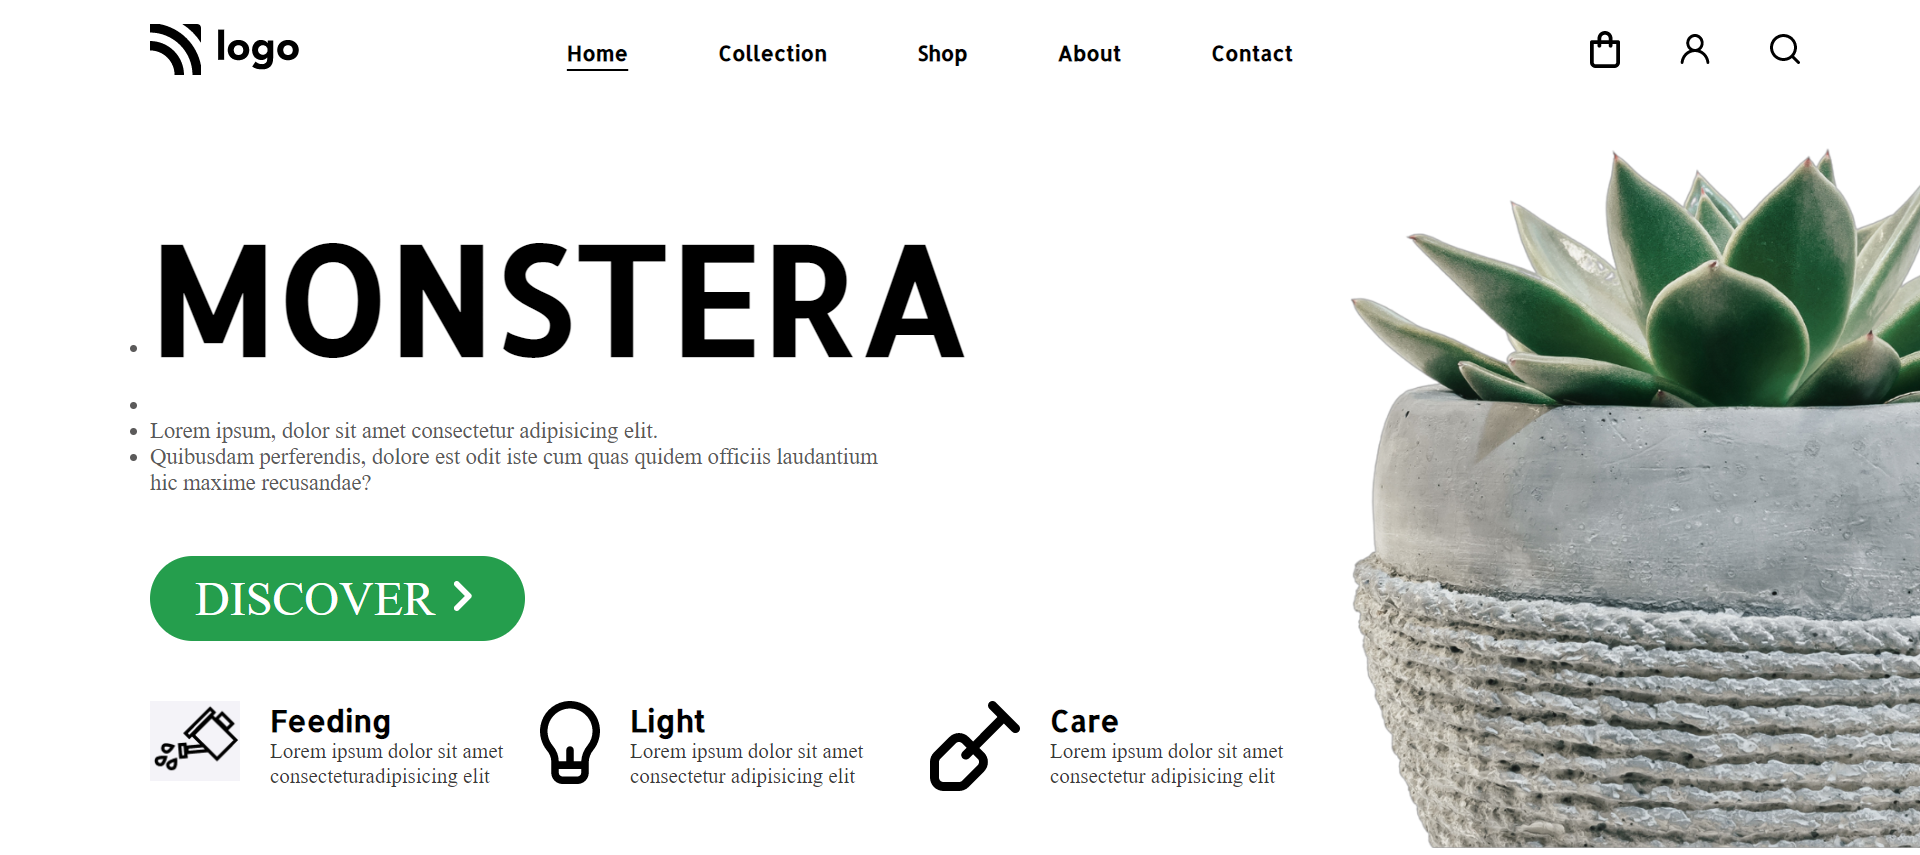
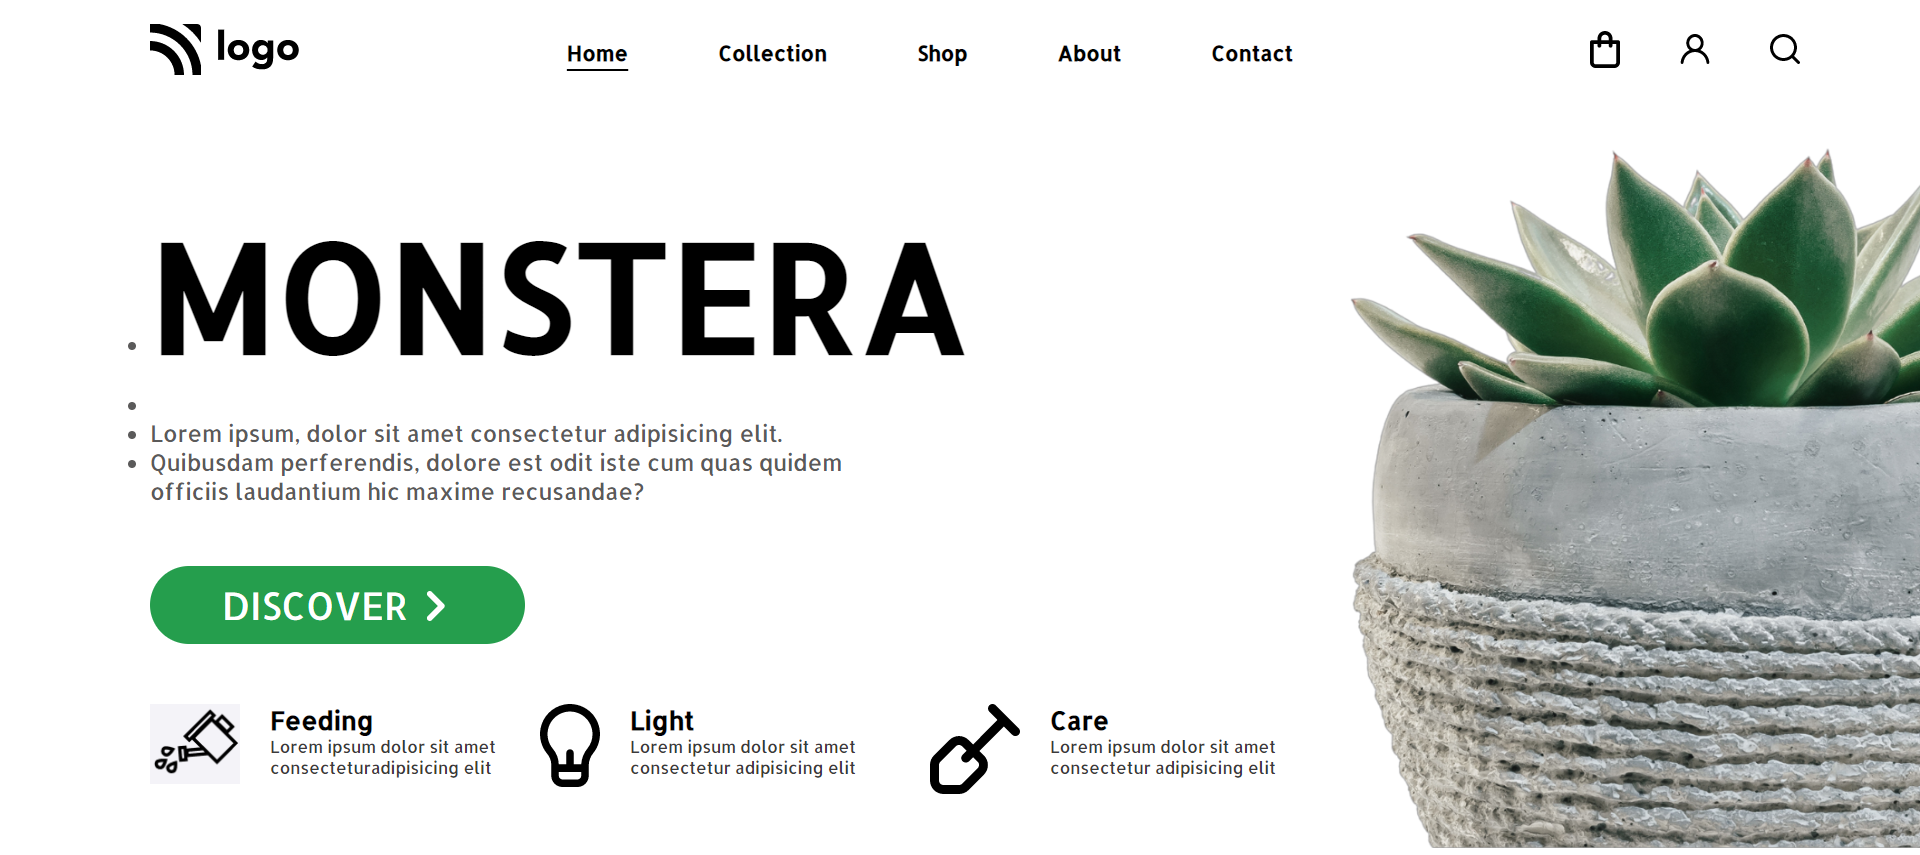
update readme

diff --git a/index.html b/index.html
@@ -19,6 +19,7 @@
         margin: 0;
         padding: 0;
         box-sizing: border-box;
+        font-family: 'Allerta', sans-serif;
       }
 
       #navbarMonstera {
@@ -36,11 +37,13 @@
       }
       #navMid{
         display: flex;
+  
       }
       #navMid > div > h4{
         margin: 30px;
         font-size: 14px;
         font-weight: 600;
+        cursor: pointer;
       }
        #navMid > div > h4:nth-child(1){
         position: relative;
@@ -60,6 +63,7 @@
       #navEnd > div > img{
         margin: 20px;
         width: 20px;
+        cursor: pointer;
       }
       #midWholePart1{
         display: flex;
@@ -87,12 +91,15 @@
         justify-content: center;
         border-radius: 30px;
         color: white;
+        cursor: pointer;
       }
       #midWholePart121 > div > h1{
         font-weight: 400;
+        font-size: 25px;
         text-align: center;
       }
       #midWholePart122 > img{
+        margin-top: 5px;
         margin-left: 10px;
       }
       #midWhole{
@@ -137,11 +144,11 @@
       }
 
       .midWholePart13Parts > div > h4{
-        font-size: 20px;
+        font-size: 17px;
          font-family: 'Allerta';  
       }
       .midWholePart13Parts > div > .text{
-        font-size: 14px;
+        font-size: 11px;
         color: rgb(60, 58, 58);
       }
 

diff --git a/README.md b/README.md
@@ -16,6 +16,6 @@
 ---
 ## 🚀  Project Live Link <br>
 ---
-This project is been hosted on netlify. [Live Project Link](https://effervescent-donut-737bd5.netlify.app)
+This project is been hosted on netlify. [Live Project Link](https://vocal-sherbet-ac5716.netlify.app)
 
 ![LOW HOME PAGE](/Monstera.png)
